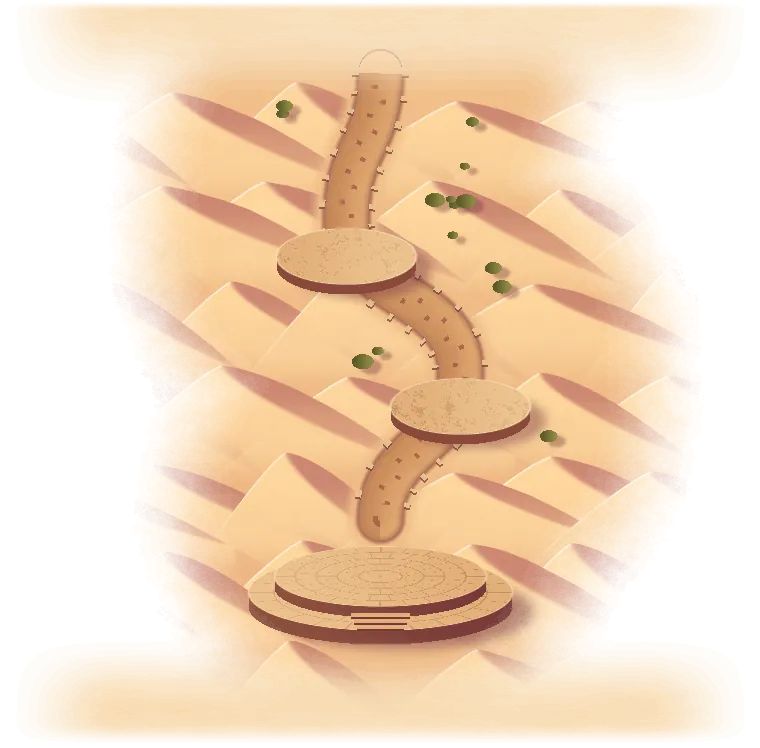
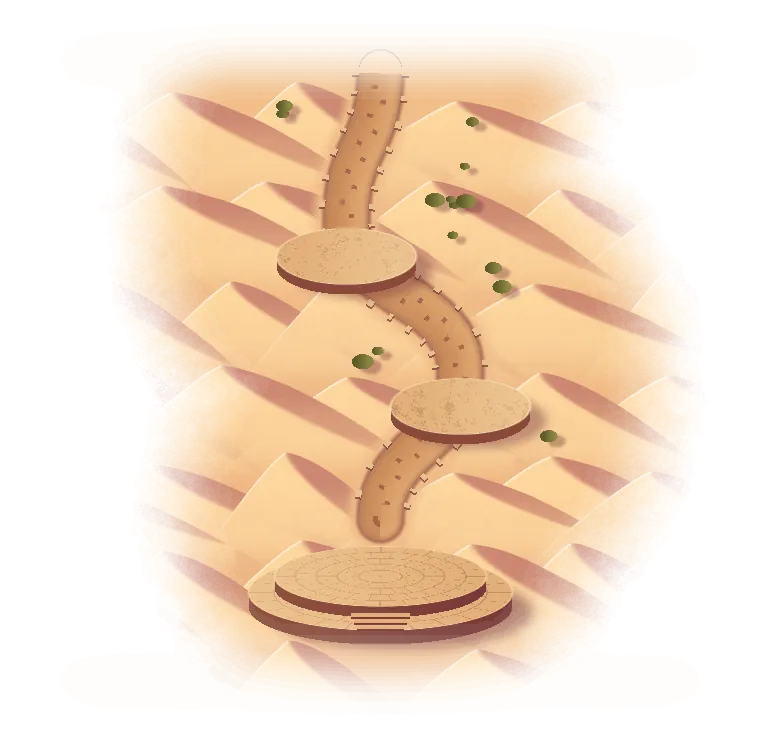
Ruta v30 · A2: vega del oasis con textura y matas, agua que refleja el cielo de fuego, mercaderes, sombras de nubes y marco de palmeras
Claude-Session: https://claude.ai/code/session_01BaUMrzu23xfwmbCXf3BkLv

Changed region(s): [[0.0605, 0.8302, 0.9382, 1.0], [0.0605, 0.0, 0.9382, 0.123]]

diff --git a/scripts/mundos/a2.py b/scripts/mundos/a2.py
@@ -8,7 +8,7 @@ import numpy as np
 
 import arquitectura as ar
 import sprites as sp
-from pincel import (H, W, Capa, Lienzo, borde, desplaza, reflejo_capa, nube_suelta, cielo, cirros, col, desenfoca, desplaza, mezcla, niebla, nube, perfil_picos, sierra,
+from pincel import (H, W, marco_hojas, Capa, Lienzo, borde, desplaza, reflejo_capa, nube_suelta, cielo, cirros, col, desenfoca, desplaza, mezcla, niebla, nube, perfil_picos, sierra,
                     sombra_de, sombra_elipse, spline, suave, volumen)
 
 LUZ = -1
@@ -191,14 +191,19 @@ def pinta(M):
     vc = mezcla(np.broadcast_to(col("#2a3218"), (H, W, 3)), col("#7a7a36"), volumen(vega, 10, LUZ, -0.8)[..., None])
     vc = mezcla(vc, col("#c8784a"), suave(1020, 1220, Y)[..., None] * 0.35)
     vc = mezcla(vc, col("#ffcf80"), (suave(0.55, 0.8, L.ruido(1.4, 44)) * 0.3)[..., None])
+    hierba = L.ruido(1.1, 46, aniso=(1.0, 3.0))
+    matas = suave(0.55, 0.75, desenfoca(L.ruido(2.2, 47), 2))
+    vc = mezcla(vc, col("#141c0c"), (matas * 0.45)[..., None])
+    vc = mezcla(vc, col("#d8b860"), (suave(0.7, 0.9, hierba) * 0.35)[..., None])
+    vc = vc * (0.9 + 0.2 * hierba)[..., None]
     C.pon(vc, vega * suave(0.2, 0.6, desenfoca(vega, 6)))
     sombra_de(C, pab, 930 - abx, 1046 - aby, LUZ, largo=1.4, aplasta=0.2, c="#3a1a3a", f=0.4)
     C.pega(pab, 930 - abx, 1046 - aby)
     lago = L.mascara(lambda P: P.poly(spline([(450, 1120), (560, 1066), (760, 1050), (960, 1062), (1080, 1100), (1060, 1130), (930, 1112), (760, 1112), (600, 1136), (500, 1160)], 10, cerrada=True)))
     y_l = 1050
-    cielo_ref = cielo(L, [(0, "#fde4a8"), (0.68, "#ffd890"), (0.71, "#f08a44"), (0.74, "#c8443e"), (0.77, "#7a2a50"), (1, "#3a1648")])
+    cielo_ref = cielo(L, [(0, "#fde4a8"), (0.68, "#ffd890"), (0.695, "#f08a44"), (0.71, "#b8404a"), (0.73, "#6a2a5a"), (1, "#2a1448")])
     cielo_ref = mezcla(cielo_ref, col("#fff2c0"), (np.exp(-(((X - sx - 420) / 140) ** 2)) * suave(1170, y_l, Y) * 0.55)[..., None])
-    reflejo_capa(C, y_l, 1180, cielo_ref, f=0.7, olas=2.0, seed=45, mascara=lago, brillo="#ffe8b0", oscurece=0.7)
+    reflejo_capa(C, y_l, 1180, cielo_ref, f=0.3, olas=2.0, seed=45, mascara=lago, brillo="#ffe8b0", oscurece=0.7)
     C.pon("#2a3a1a", borde(lago, 0, 3, 1.2) * 0.7)
     C.pon("#fff0c0", borde(lago, 0, -2, 0.8) * 0.5)
     # juncos y hierba en la orilla
@@ -236,6 +241,12 @@ def pinta(M):
     C.pon("#ffcf8a", borde(mat, -LUZ, -1) * 0.7)
     M.capa("frente", C, 1.0)
 
+    # ------------------------------------------------------------ 6 · marco: hojas de palmera desenfocadas en las esquinas
+    C = Capa(L)
+    marco_hojas(C, [(30, 1360, 60, 50, 120, -0.3), (40, 1500, 90, 70, 130, -0.6), (1080, 1380, 60, 50, 120, -2.8), (1060, 1510, 90, 70, 130, -2.5)],
+                "#1a1408", "#6a5a2a", luz=LUZ, punta="#ffb060", desenfoque=7, seed=92)
+    M.capa("marco", C, 1.3)
+
     # ------------------------------------------------------------ piezas animadas
     cw, ch = sp.caravana(M.ruta("caravana.webp"), n=5, alto=40, luz=LUZ)
     # sobre la cresta de la duna central (y de la cresta en x≈450)
@@ -258,6 +269,12 @@ def pinta(M):
     for i, (x, base, s, amp) in enumerate(((470, 1120, 0.7, 1.6), (540, 1084, 0.86, 1.4), (1060, 1090, 0.8, 1.8), (1110, 1108, 0.6, 2.0), (1000, 1560, 1.9, 1.2), (-40, 1590, 1.7, 1.0))):
         w_, h_ = sp_w * s, sp_h * s
         M.actor("oasis" if i < 4 else "frente", "palmera.webp", x - w_ / 2, base - h_, w_, h_, "mece", dur=5 + i * 0.6, retraso=-i, amp=amp, movil=i in (0, 2, 4))
+    sp.gente(M, "oasis", "mercader", 360, 1150, 18, 18, 70, retraso=-12, luz=LUZ)
+    sp.gente(M, "oasis", "viajero", 560, 1200, 20, -14, 64, retraso=-40, luz=LUZ, movil=False)
+    sp.gente(M, "oasis", "monje", 980, 1060, 14, -8, 50, retraso=-5, luz=LUZ, movil=False)
+    sp.sombra_nube(M.ruta("sombra-nube.webp"), 480, 160, "#4a1a3a", 0.3, seed=4)
+    M.actor("dunas", "sombra-nube.webp", -200, 900, 520, 160, "deriva", dur=70, dx=45)
+    M.actor("oasis", "sombra-nube.webp", 600, 1220, 460, 150, "deriva", dur=90, retraso=-40, dx=-40, movil=False)
     for i, (x, y, w, h, dur, dx) in enumerate(((80, 150, 360, 100, 170, 26), (700, 90, 380, 110, 210, -22), (420, 430, 300, 60, 120, 20))):
         nw, nh = nube_suelta(M, f"nube{i}.webp", w, h, 400 + i, sx - x - 180, sy - y, "#ffc890", "#5e2656", "#ffe2a8", base_c="#e8706a", op=0.9)
         M.actor("cielo", f"nube{i}.webp", x, y, nw, nh, "deriva", dur=dur, retraso=-dur * 0.3 * i, dx=dx, movil=i < 2)
